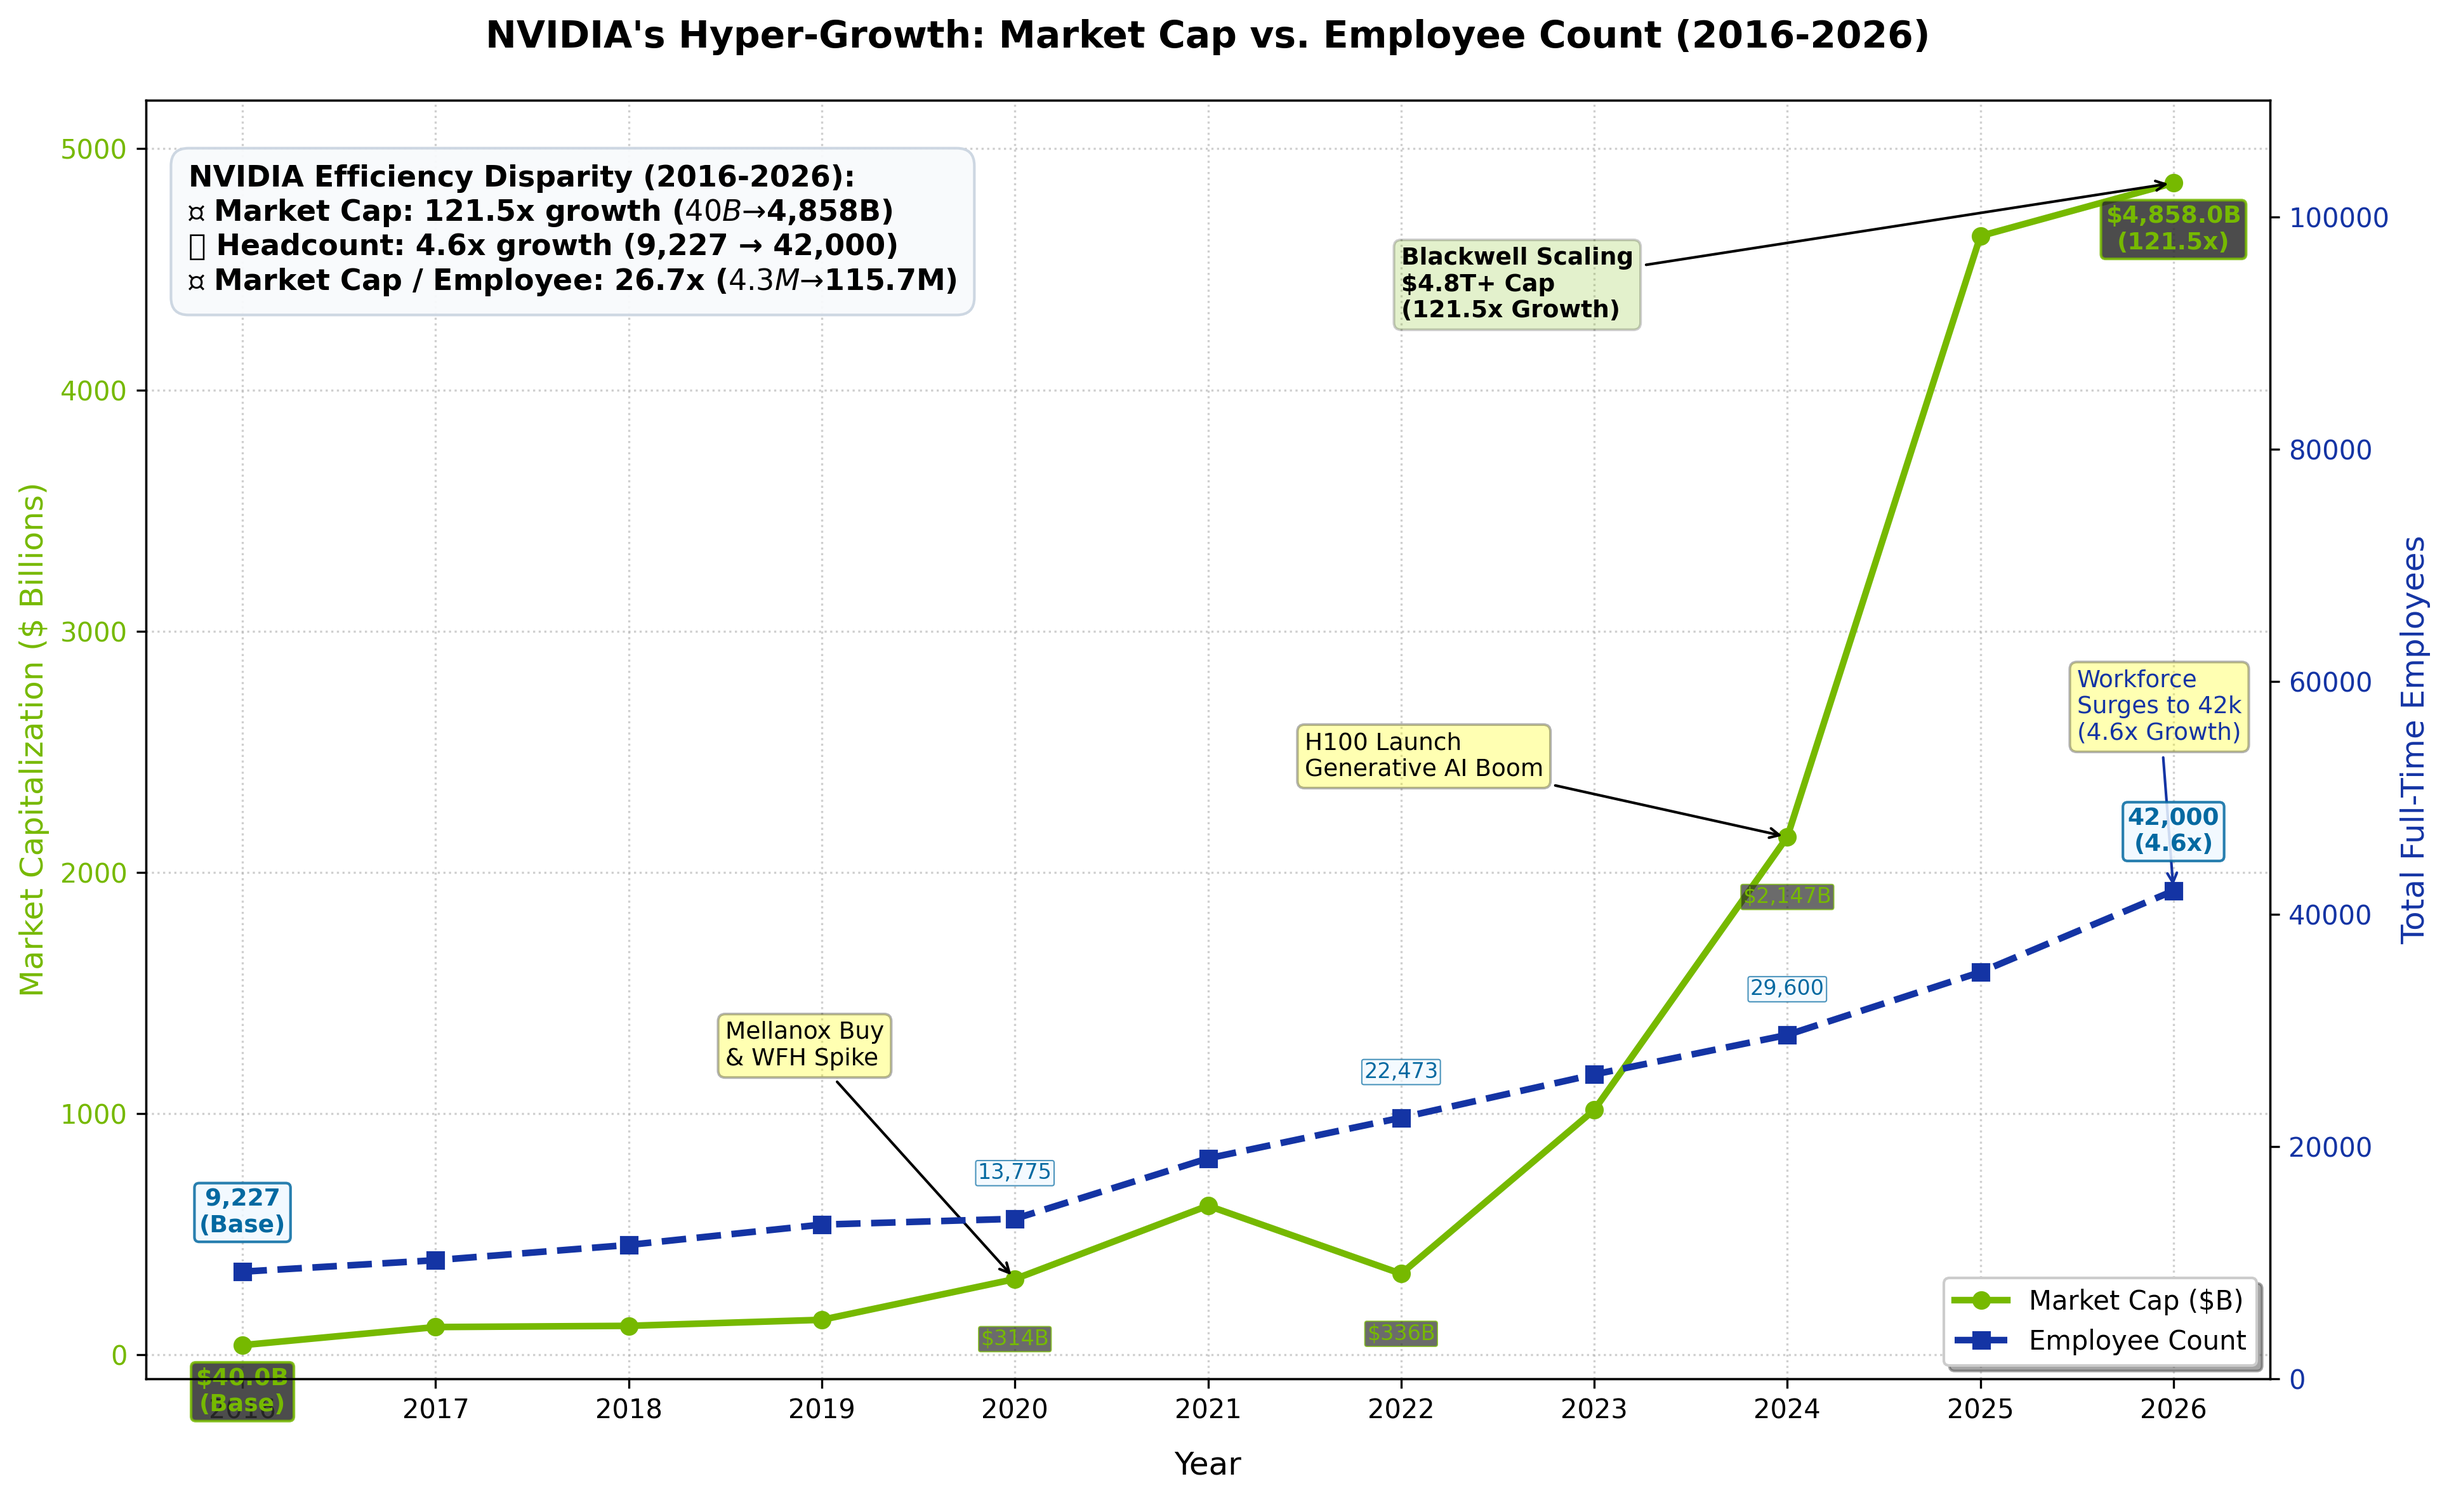
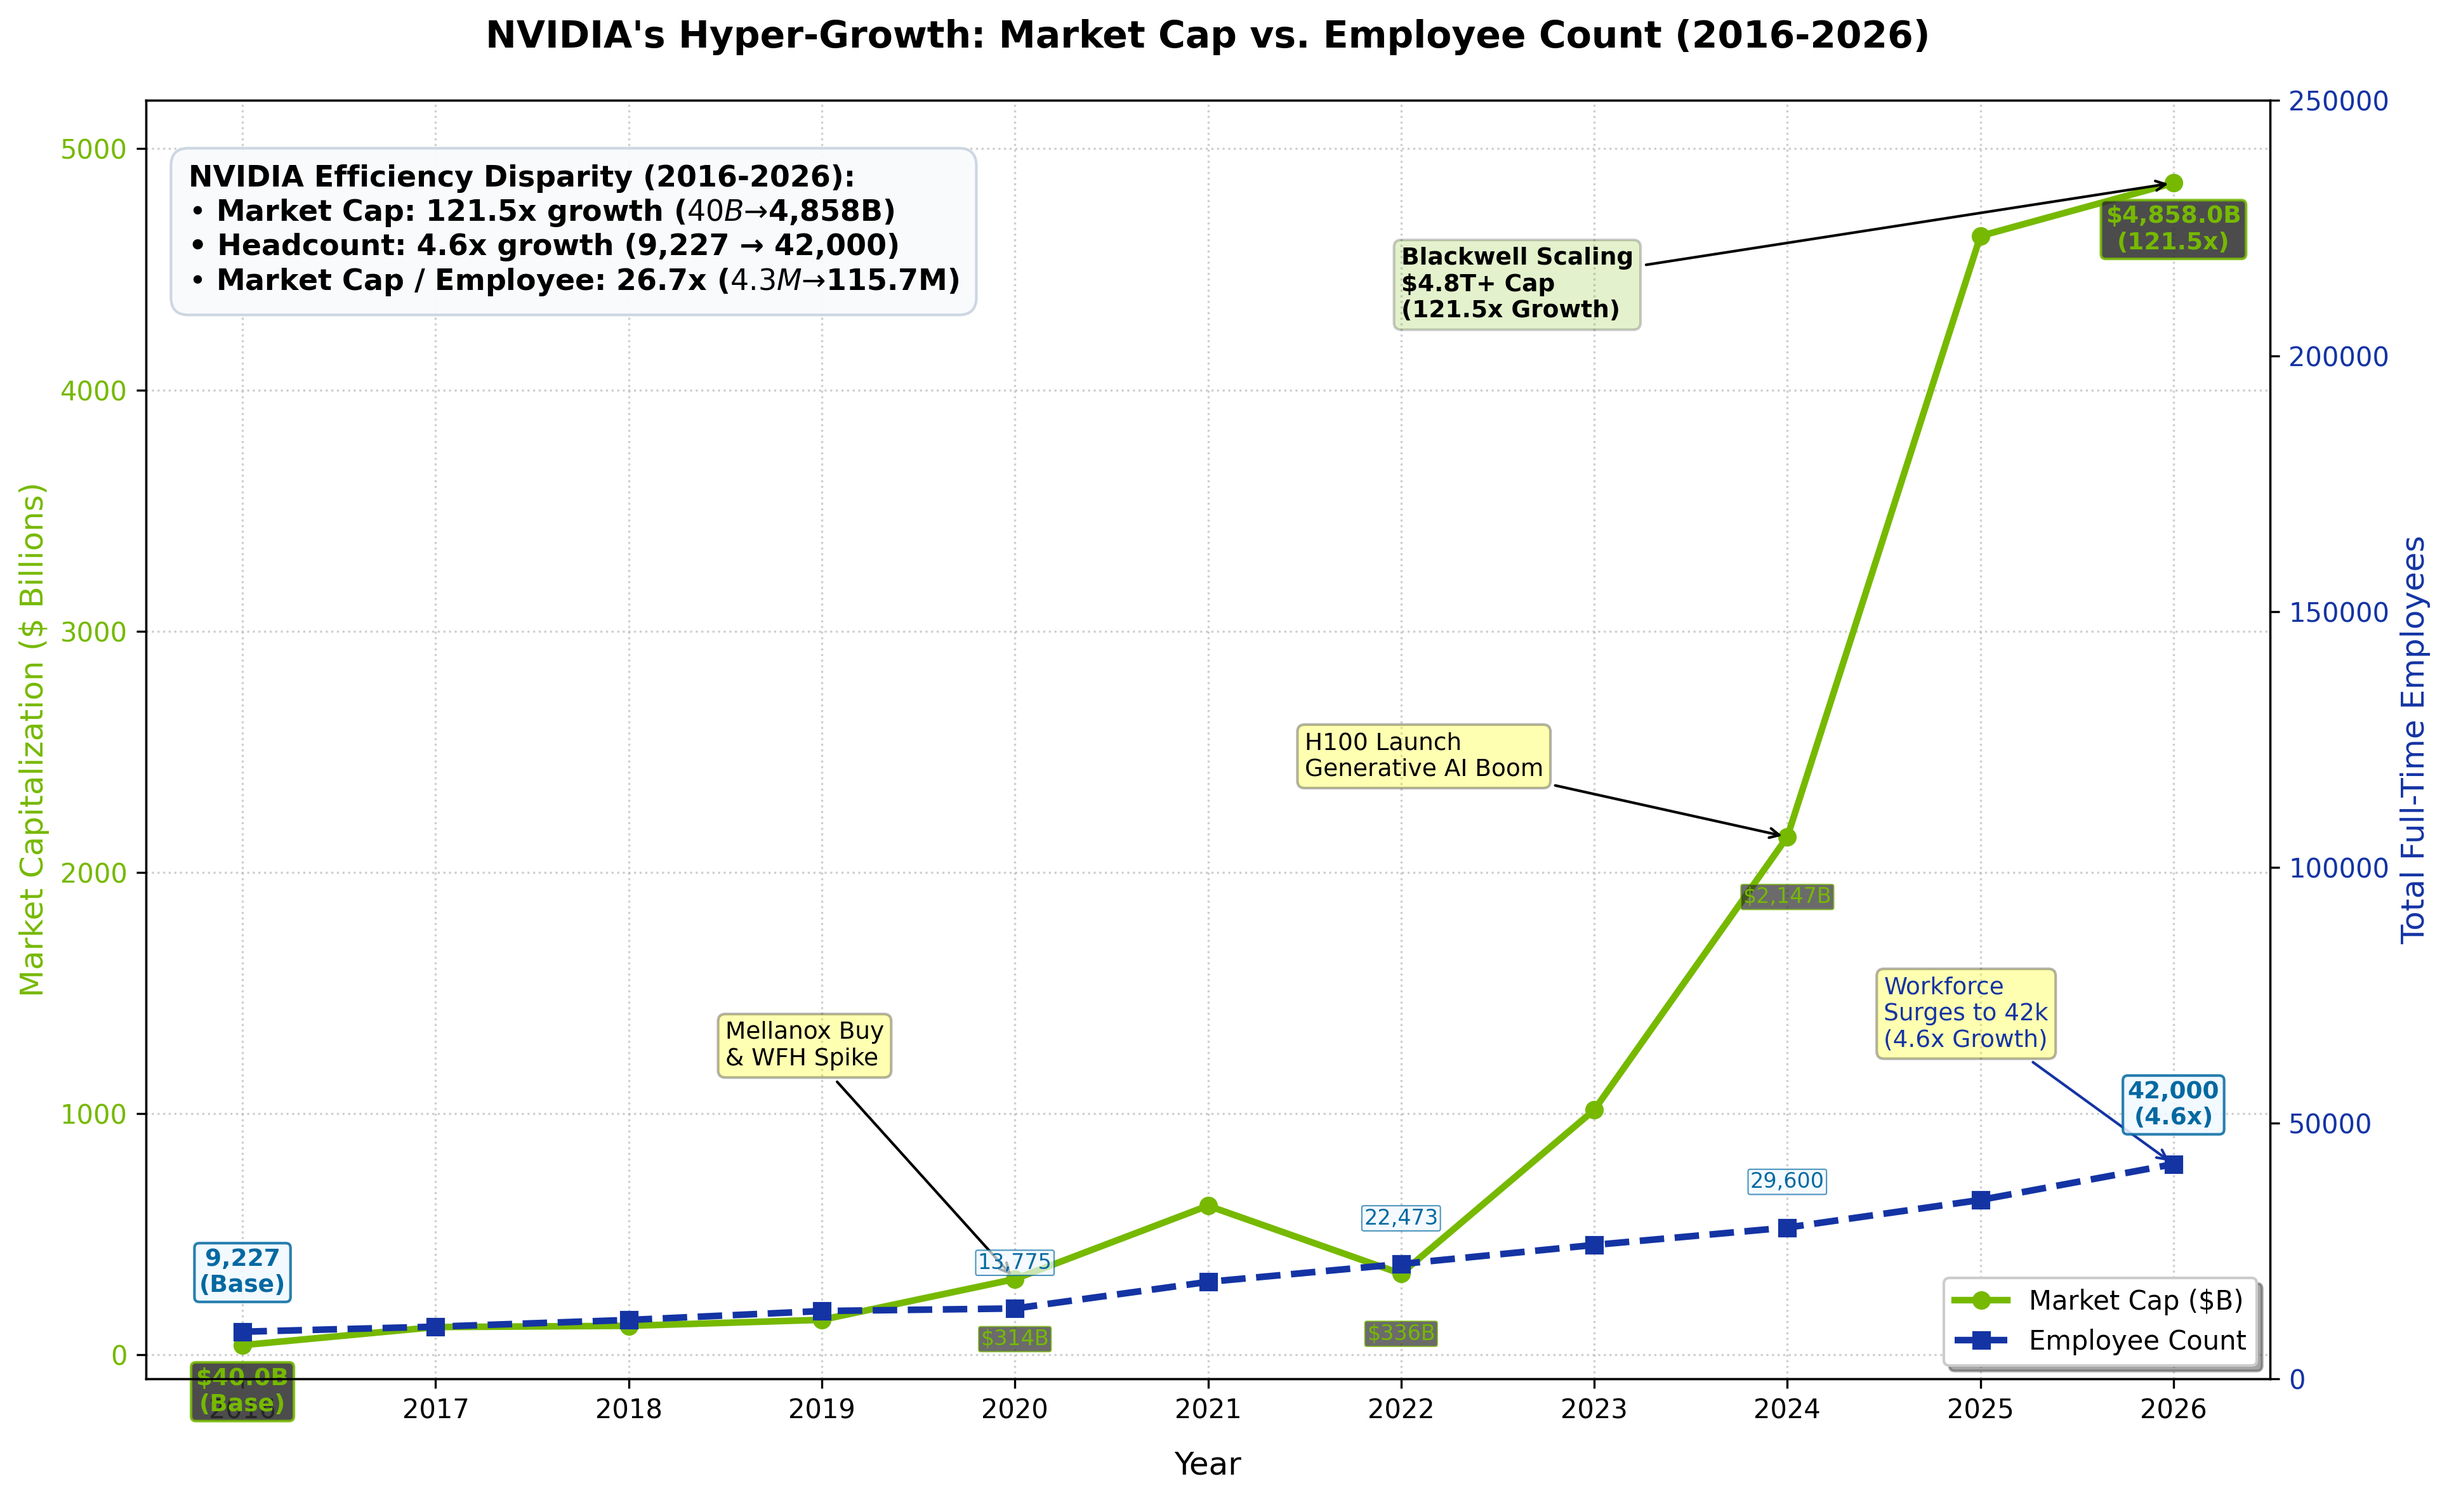
minor

diff --git a/nvidia_marketcap_vs_headcount.py b/nvidia_marketcap_vs_headcount.py
@@ -31,14 +31,14 @@ line2 = ax2.plot(years, employee_count, color=color_employees, marker='s', linew
 ax2.tick_params(axis='y', labelcolor=color_employees)
 # Setting ax2 limits to prevent the employee line from looking as steep as the market cap line
 # This visually highlights the huge divergence in scaling (121.5x vs 4.6x)
-ax2.set_ylim(0, 110000)
+ax2.set_ylim(0, 250000)
 
 # Add a prominent stats contrast card / text box
 stats_text = (
     "NVIDIA Efficiency Disparity (2016-2026):\n"
-    "📈 Market Cap: 121.5x growth ($40B → $4,858B)\n"
-    "👥 Headcount: 4.6x growth (9,227 → 42,000)\n"
-    "💰 Market Cap / Employee: 26.7x ($4.3M → $115.7M)"
+    "• Market Cap: 121.5x growth ($40B → $4,858B)\n"
+    "• Headcount: 4.6x growth (9,227 → 42,000)\n"
+    "• Market Cap / Employee: 26.7x ($4.3M → $115.7M)"
 )
 ax1.text(0.02, 0.95, stats_text, transform=ax1.transAxes, fontsize=11, fontweight='bold',
          verticalalignment='top', bbox=dict(boxstyle='round,pad=0.6', facecolor='#f8fafc', edgecolor='#cbd5e1', alpha=0.95))
@@ -69,8 +69,8 @@ ax1.annotate('Blackwell Scaling\n$4.8T+ Cap\n(121.5x Growth)',
 # Annotation 4: Corporate Headcount Surge (42k employees)
 ax2.annotate('Workforce\nSurges to 42k\n(4.6x Growth)', 
              xy=(2026, 42000), 
-             xytext=(2025.5, 55000),
-             arrowprops=dict(facecolor='blue', arrowstyle='->', lw=1, color='#1434A4'),
+             xytext=(2024.5, 65000),
+             arrowprops=dict(arrowstyle='->', lw=1, color='#1434A4'),
              fontsize=9, color='#1434A4', bbox=dict(boxstyle='round,pad=0.3', fc='yellow', alpha=0.3))
 
 # Helper function to prevent repetitive annotation block syntax
@@ -157,7 +157,7 @@ print(f"Saved plot to: {output_path}")
 if os.environ.get('DISPLAY') or os.name == 'nt':
     try:
         plt.show(block=False)
-        plt.pause(2)
+        plt.pause(100)
         plt.close()
     except Exception:
         pass
